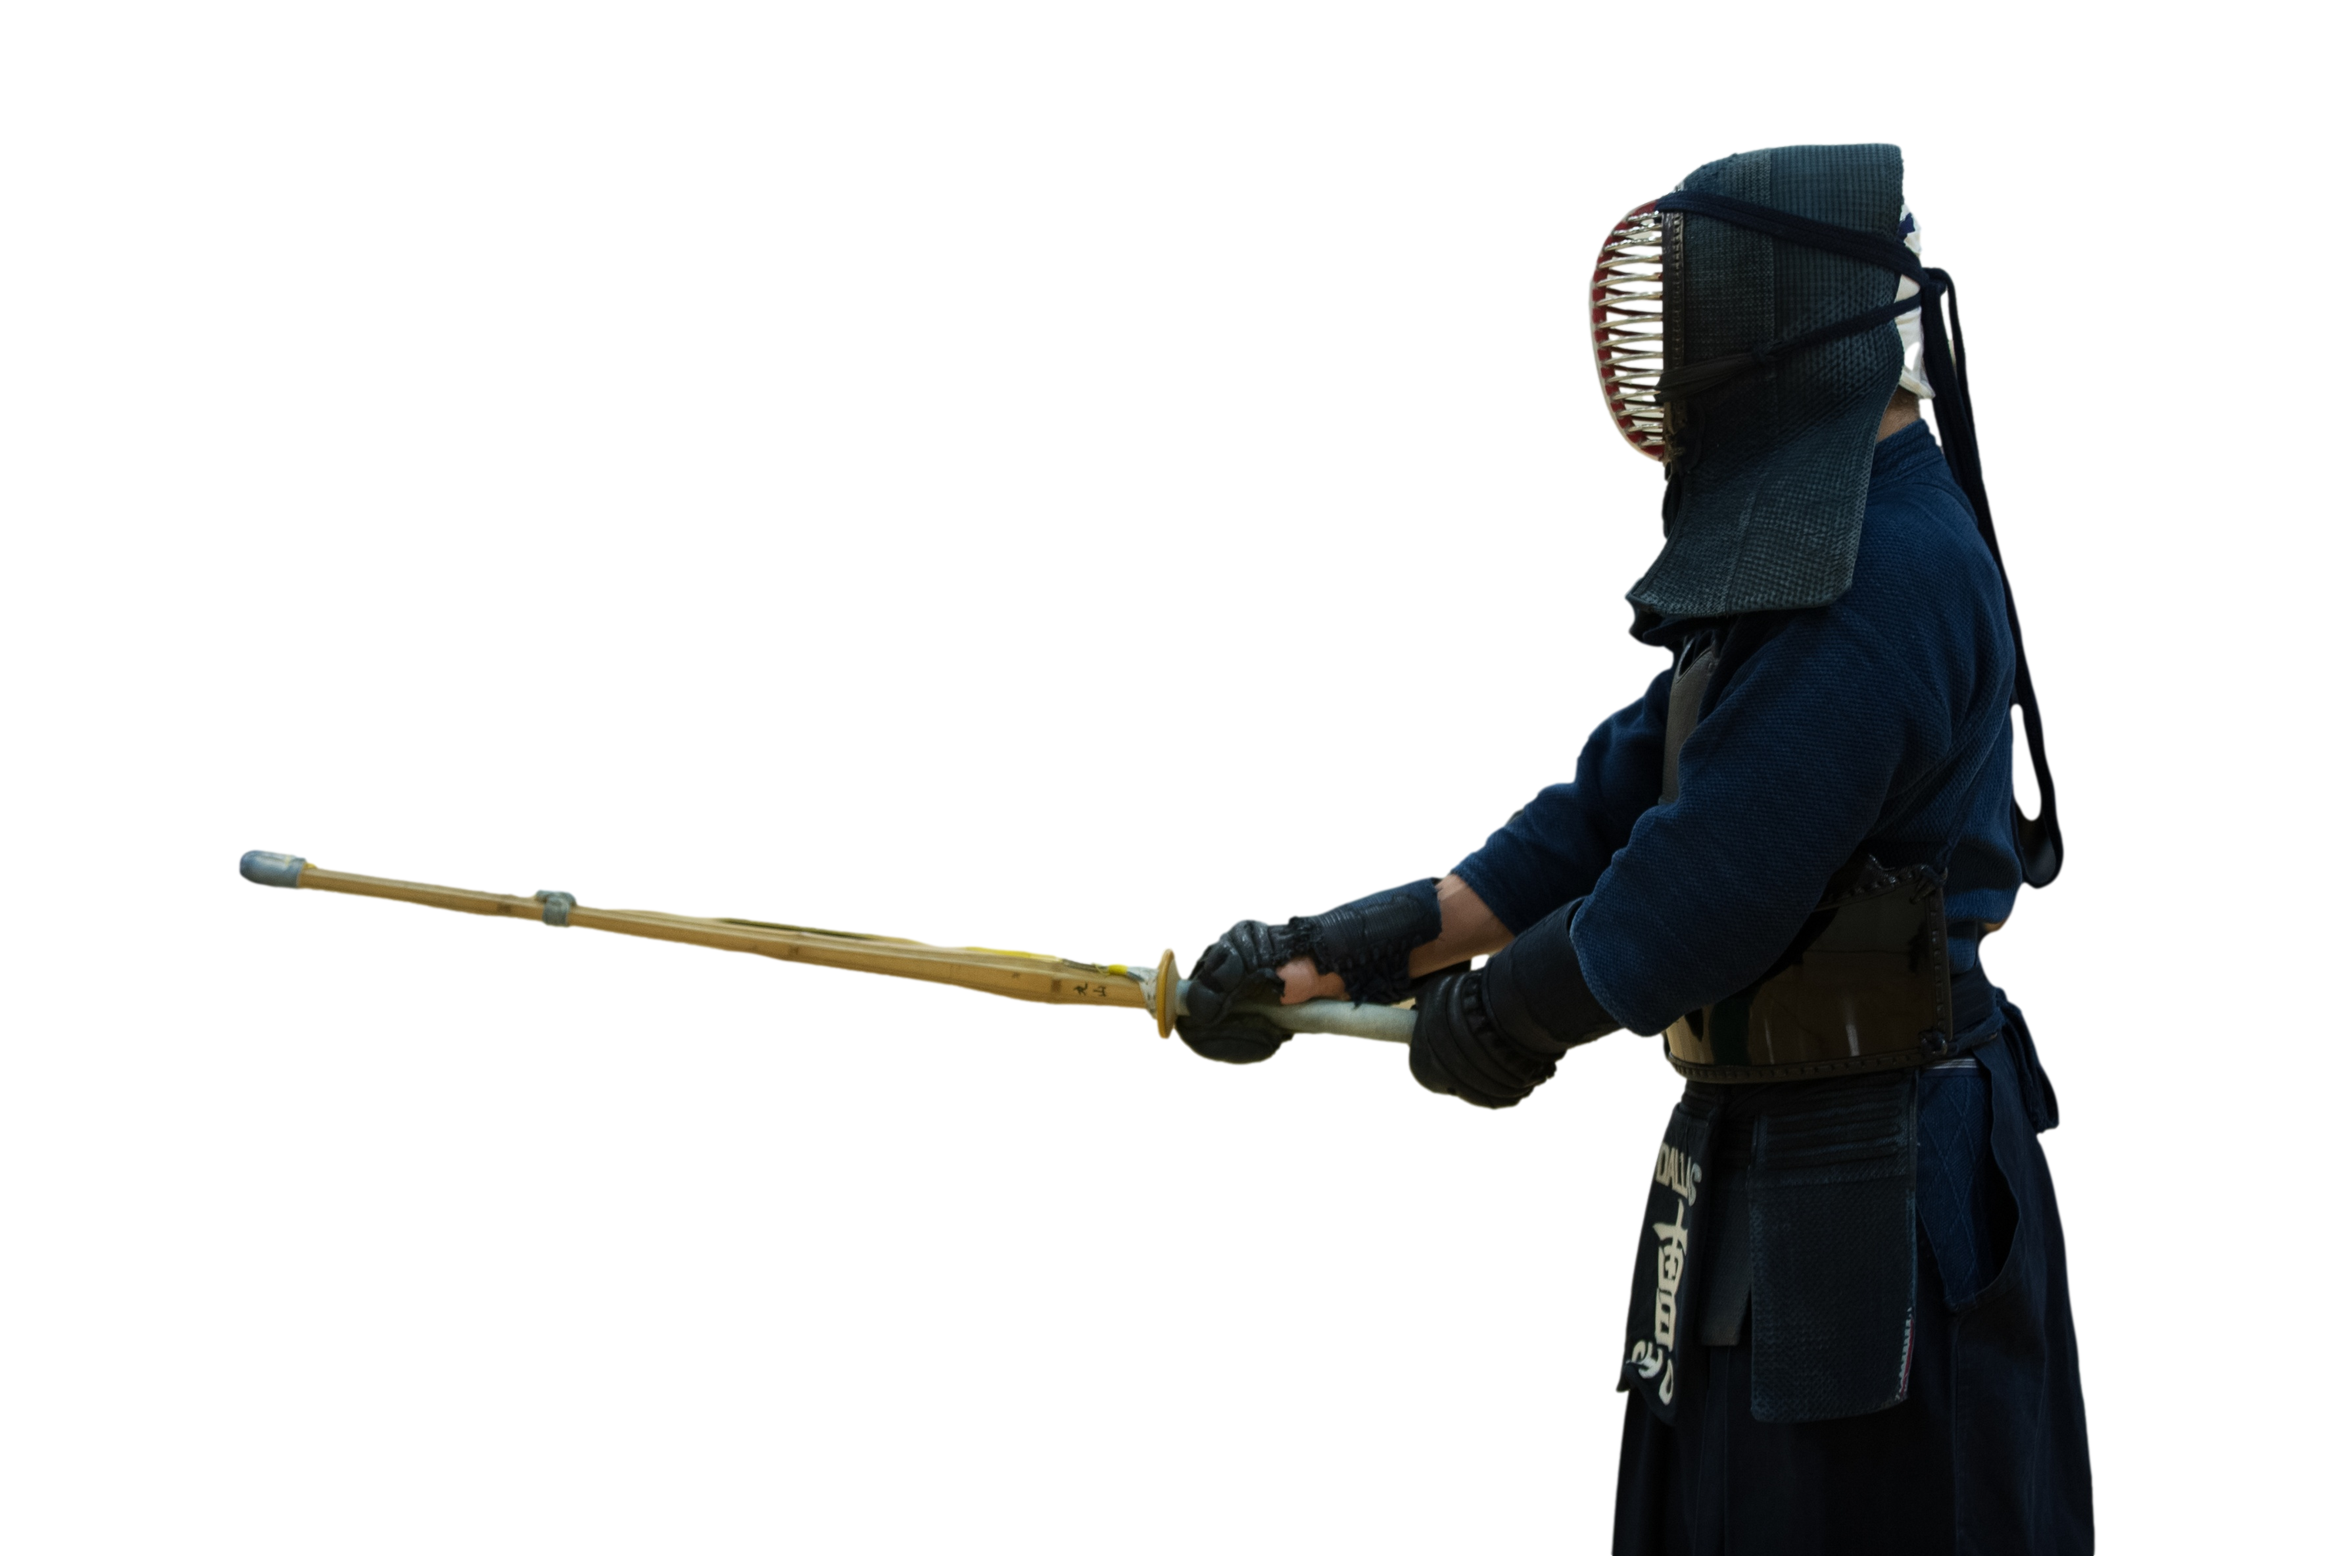
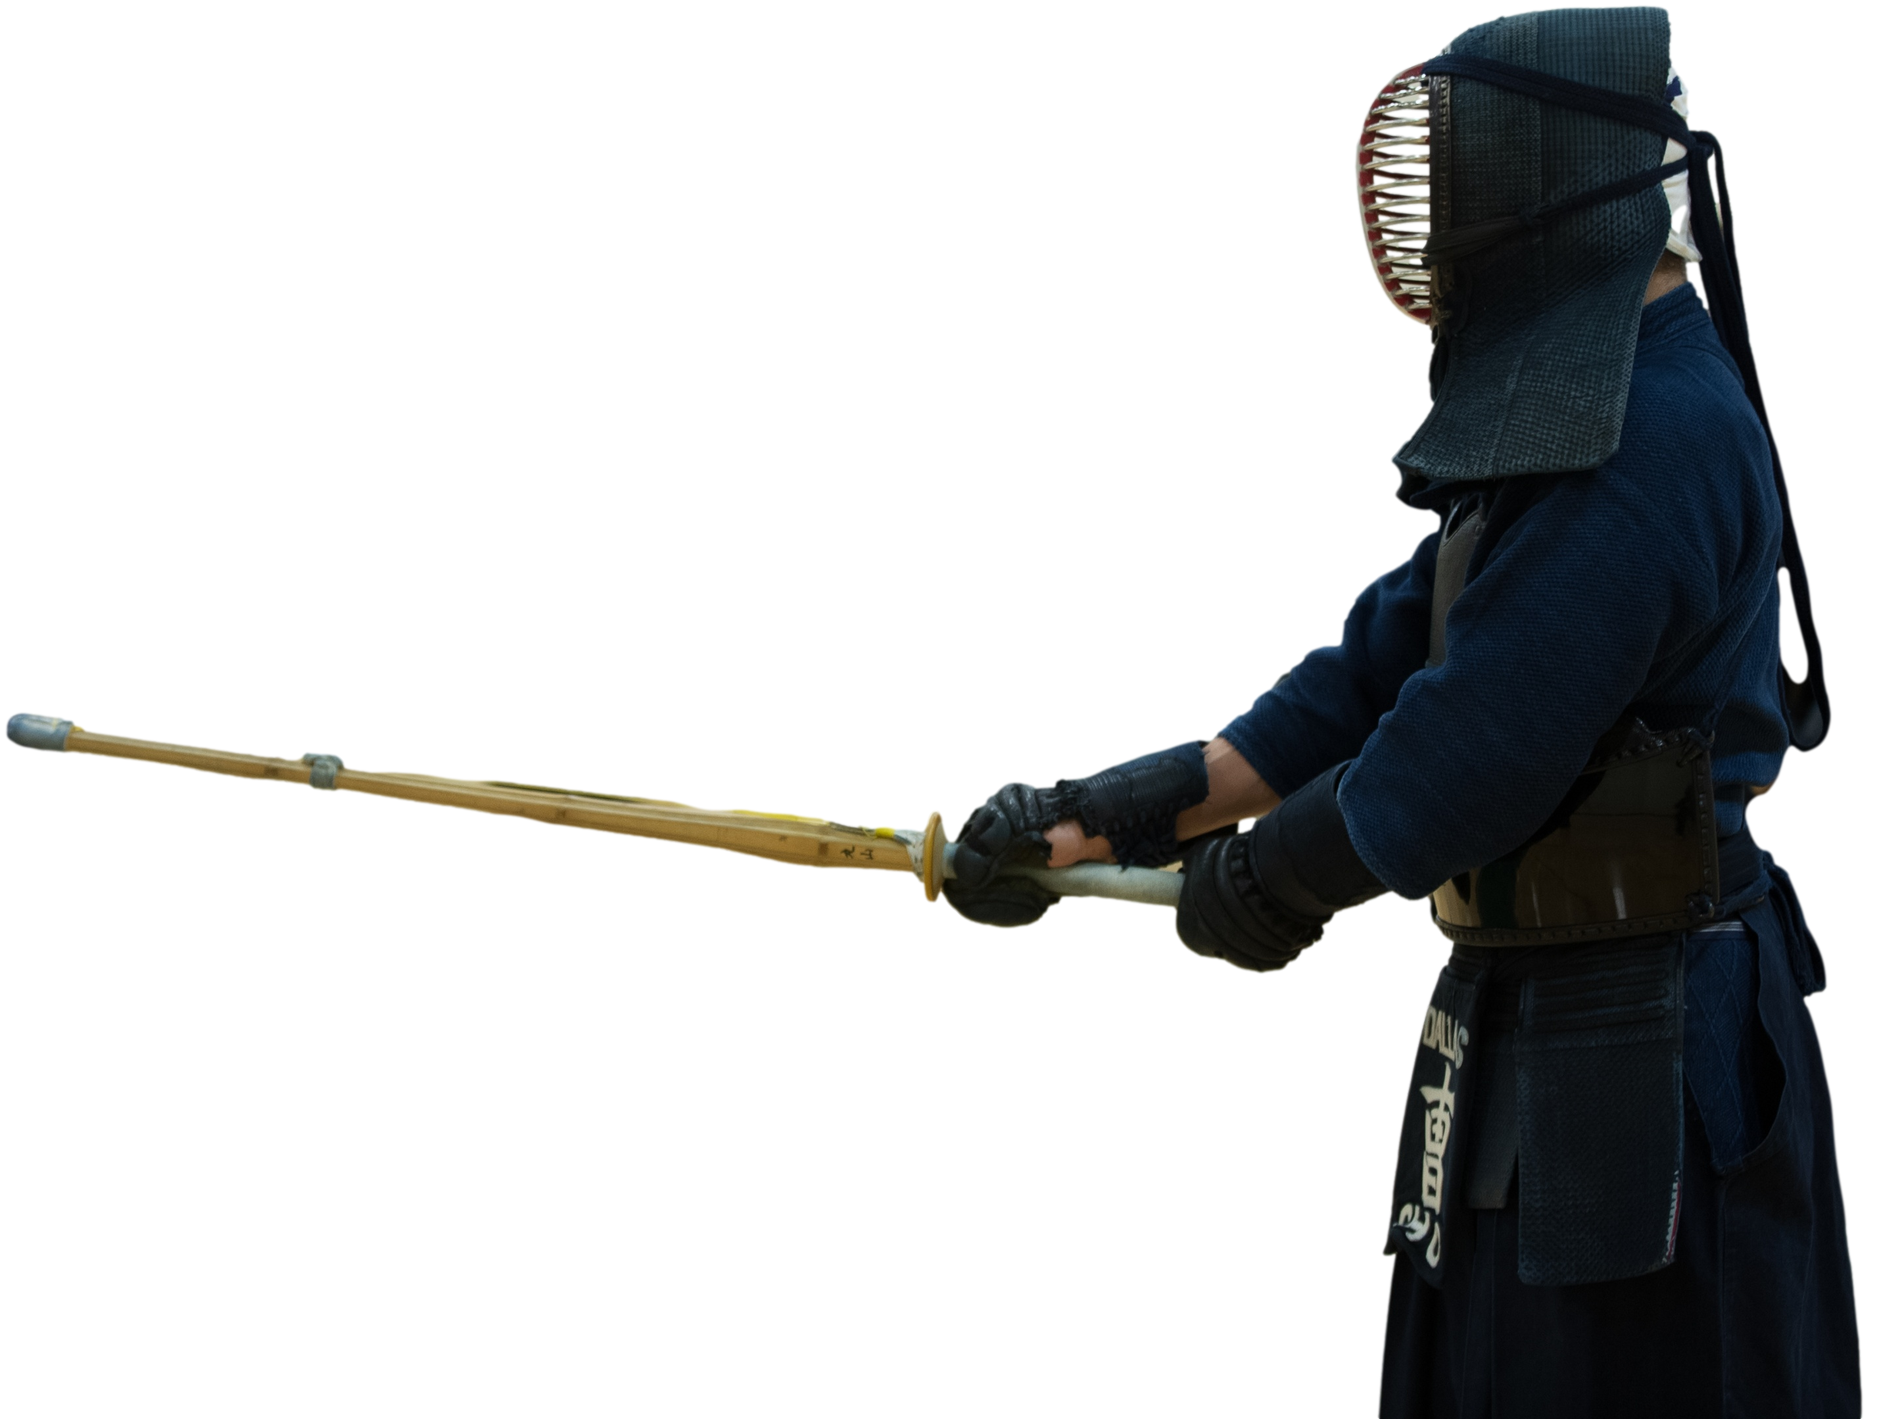
add links in menu, format article and fix kamae image

Changed region(s): [[0.0, 0.0, 0.9975, 1.0], [0.8105, 0.8693, 0.8417, 0.9004]]

diff --git a/src/app/(website)/[slug]/page.tsx b/src/app/(website)/[slug]/page.tsx
@@ -17,6 +17,7 @@ async function getData(params: { slug: string }) {
     title: discipline?.title,
     content,
     coverImage: discipline?.coverImage,
+    youtubeEmbed: discipline?.youtubeEmbed,
   };
 }
 
@@ -25,12 +26,24 @@ export async function generateStaticParams() {
   return posts.map((slug) => ({ slug }));
 }
 
+function findAndInjectYoutubeVideos(content: string) {
+  // Regular expression to match the YouTube embed placeholder
+  const youtubeEmbedRegex = /{{youtube_embed:(.*?)}}/g;
+
+  // Replace all YouTube embed placeholders with the corresponding iframe code
+  return content.replace(youtubeEmbedRegex, (match, youtubeId) => {
+    // Generate the iframe code with the extracted YouTube ID
+    return `<iframe src="https://www.youtube.com/embed/${youtubeId}" frameborder="0" allow="accelerometer; autoplay; encrypted-media; gyroscope; picture-in-picture" allowfullscreen></iframe>`;
+  });
+}
+
 export default async function DisciplinePage({
   params,
 }: Readonly<{
   params: { slug: string };
 }>) {
   const { title, content, coverImage } = await getData(params);
+  const contentWithVideos = findAndInjectYoutubeVideos(content);
   return (
     <div className="flex h-screen flex-col">
       <div className="relative flex w-full flex-row">
@@ -38,13 +51,18 @@ export default async function DisciplinePage({
           {title}
         </div>
         <div className="absolute left-0 right-0 z-10 h-full w-full">
-          <Image src={coverImage ? coverImage : "/site_banner.jpg"} alt="cover image" fill objectFit="cover" />
+          <Image
+            src={coverImage ? coverImage : "/site_banner.jpg"}
+            alt="cover image"
+            fill
+            objectFit="cover"
+          />
         </div>
       </div>
       <div
         className="markdown-to-html relative z-20 flex flex-grow flex-col bg-slate-300 p-10 text-slate-800 md:-top-24 md:m-16 md:-mb-16"
-        dangerouslySetInnerHTML={{ __html: content }}
-      ></div>
+        dangerouslySetInnerHTML={{ __html: contentWithVideos }}
+      />
     </div>
   );
 }

diff --git a/src/app/(website)/nav-bar-desktop.tsx b/src/app/(website)/nav-bar-desktop.tsx
@@ -1,5 +1,6 @@
 "use client";
 
+import Link from "next/link";
 import { useState } from "react";
 
 const timeoutLength = 300;
@@ -10,12 +11,10 @@ export default function NavBarDesktop({
 }: Readonly<{
   elements: {
     menuTitle: string;
-    menuItems: { title: string }[];
+    menuItems: { title: string; slug: string }[];
   }[];
   className?: string;
 }>) {
-  const [openMenu, setOpenMenu] = useState<string | undefined>();
-
   return (
     <div className={`flex flex-row ${className}`}>
       {elements.map(({ menuTitle, menuItems }) => {
@@ -42,13 +41,15 @@ export default function NavBarDesktop({
                 <div
                   className={`w-28 flex-col rounded bg-slate-300 text-slate-900 shadow-lg`}
                 >
-                  {menuItems.map(({ title }) => (
-                    <div
-                      key="document"
-                      className="cursor-pointer p-2 first:rounded-t last:rounded-b hover:bg-slate-700 hover:bg-opacity-10"
-                    >
-                      {title}
-                    </div>
+                  {menuItems.map(({ title, slug }) => (
+                    <Link href={`/${slug}`}>
+                      <div
+                        key="document"
+                        className="p-2 first:rounded-t last:rounded-b hover:bg-slate-700 hover:bg-opacity-10"
+                      >
+                        {title}
+                      </div>
+                    </Link>
                   ))}
                 </div>
               </div>

diff --git a/src/app/(website)/page.tsx b/src/app/(website)/page.tsx
@@ -26,7 +26,7 @@ export default function HomePage() {
 
 function HeaderPicture() {
   return (
-    <div className="absolute z-0 h-96 w-full md:-right-28 md:-top-24 md:h-[50rem] md:w-[82rem]">
+    <div className="absolute z-0 h-96 w-full min-[1790px]:max-w-[1500px] md:max-w-[1200px] right-0 md:-top-24 md:h-[50rem]">
       <Image
         src={"/kamae_clipped.png"}
         fill

diff --git a/src/app/(website)/nav-bar.tsx b/src/app/(website)/nav-bar.tsx
@@ -69,7 +69,7 @@ async function buildNavBarElements() {
               $or: allCollectionsQuery,
               $and: [{ inMenu: slug }],
             },
-            ["title"],
+            ["title", "slug"],
           )
           .toArray();
         return { menuTitle: title, menuItems: items };

diff --git a/src/app/(website)/globals.css b/src/app/(website)/globals.css
@@ -35,8 +35,17 @@ body {
 
 @layer components {
   .markdown-to-html {
+    display: flex;
+
     h2 {
       @apply text-4xl;
+    }
+    p {
+      @apply pb-8;
+    }
+
+    iframe {
+      @apply m-auto aspect-video w-full justify-center md:w-2/3 md:max-w-[600px];
     }
   }
 }
